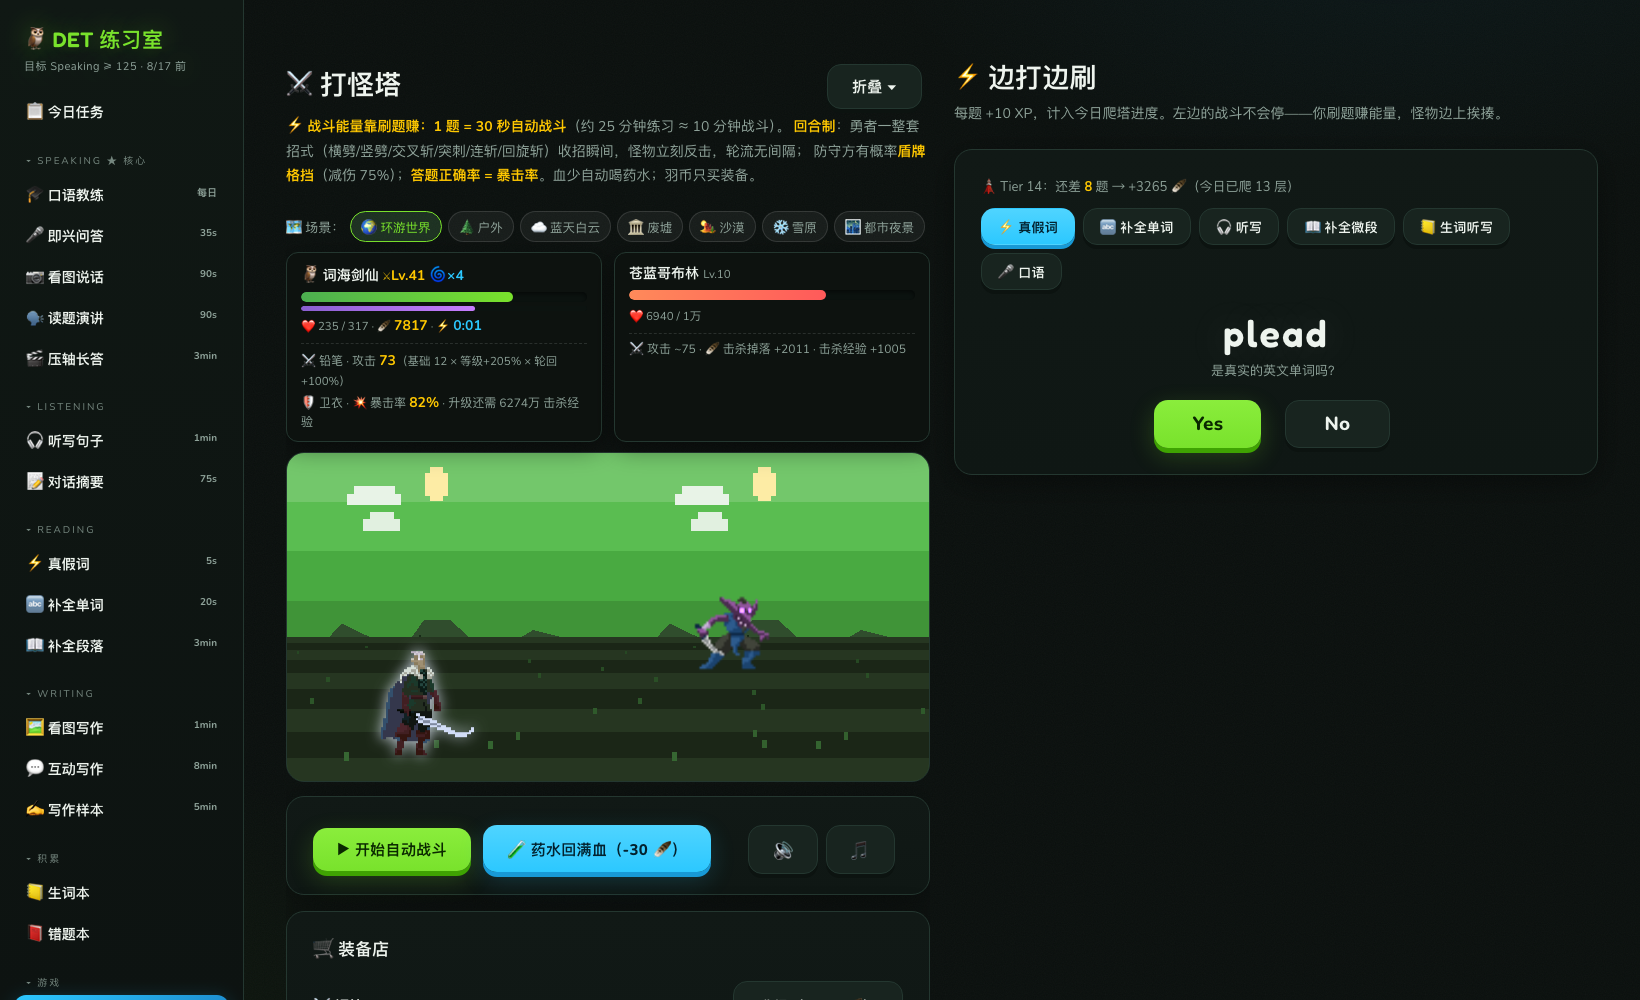
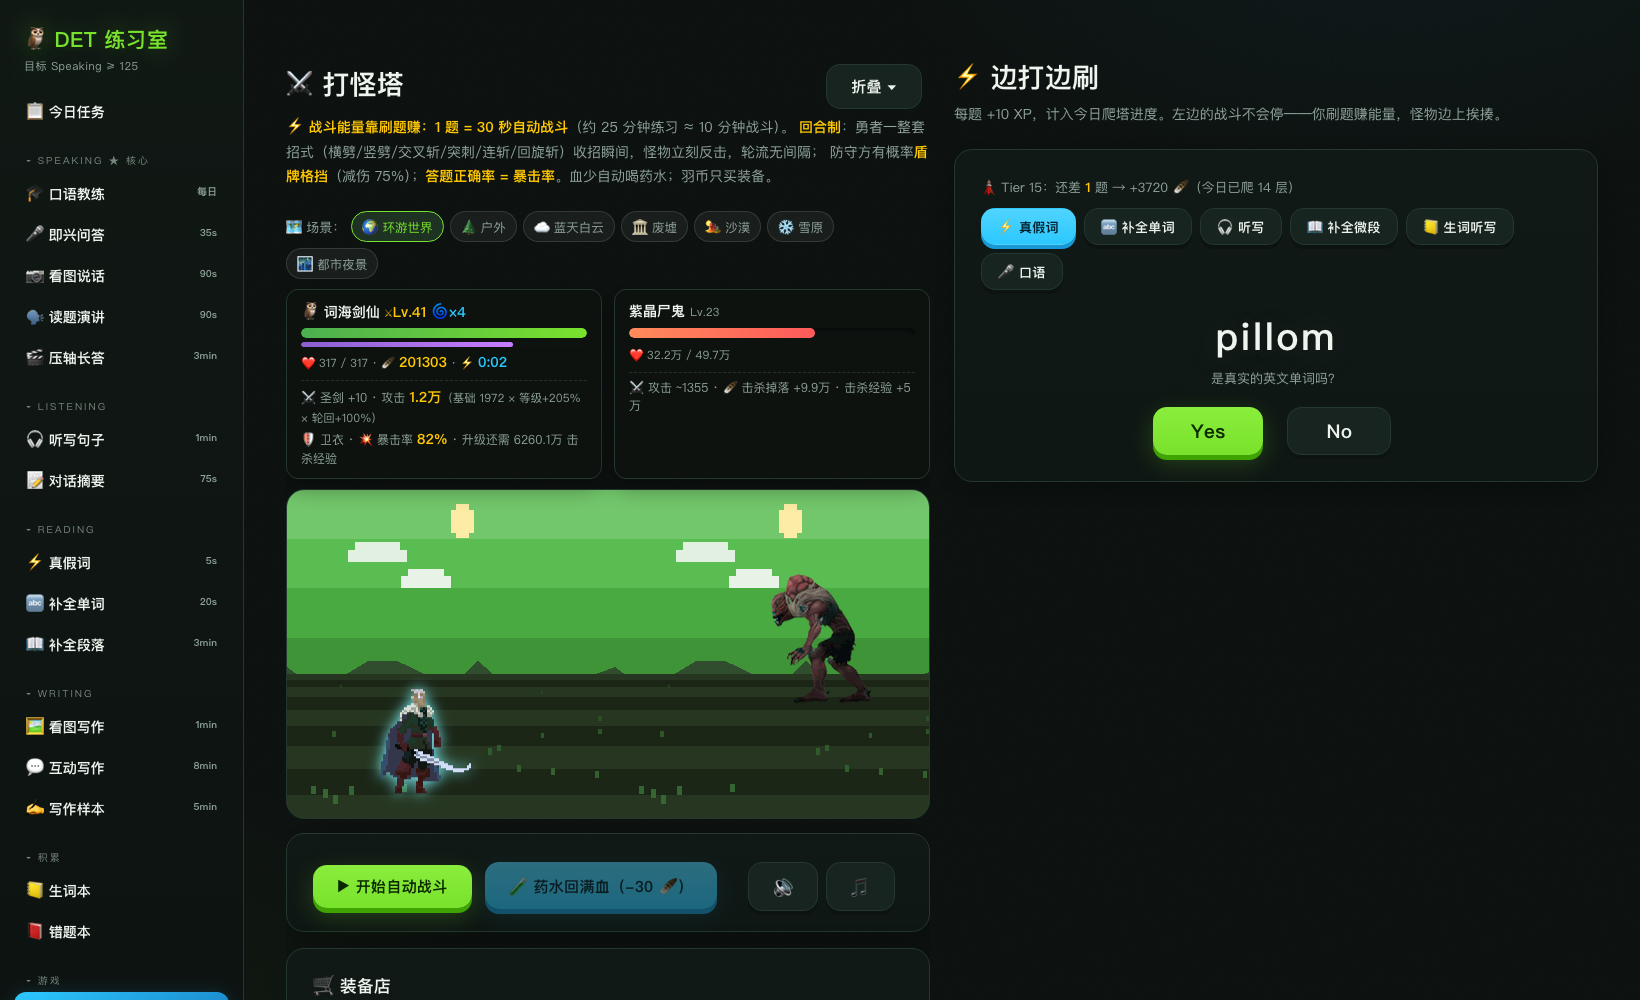
Re-cut demo (cropped, sidebar removed — no personal goal leak); split English into README.en.md with bilingual nav links; ?demo mode masks the personal exam-date countdown in screenshots/recordings

diff --git a/app.js b/app.js
@@ -1911,13 +1911,56 @@ function confetti(scopeSel) { // 不带参数=全屏庆祝；带选择器=只在
   }
 }
 
+// ── 目标设定：分数 + 考试日期由用户自己定（det_goal，跨设备同步）──
+function getGoal() { return J(localStorage.getItem("det_goal")); }
+function openGoalSetup() {
+  document.getElementById("goal-modal")?.remove();
+  const g = getGoal() || {};
+  const wrap = document.createElement("div");
+  wrap.id = "goal-modal";
+  wrap.innerHTML = `<div class="goal-card card">
+    <h3>🎯 设定你的目标</h3>
+    <p class="muted">写下目标分数和考试日期，首页会为你倒计时。之后点侧栏顶部的目标行随时可改。</p>
+    <label class="goal-row">目标 Speaking 分数 <input type="number" id="goal-score" min="10" max="160" step="5" value="${g.score || 120}"></label>
+    <label class="goal-row">考试日期 <input type="date" id="goal-date" value="${g.date || ""}"></label>
+    <div style="display:flex;gap:10px;margin-top:14px">
+      <button class="primary" id="goal-save">保存</button>
+      <button class="ghost" id="goal-skip">先逛逛</button>
+    </div></div>`;
+  document.body.appendChild(wrap);
+  $("#goal-save", wrap).onclick = () => {
+    const score = Math.max(10, Math.min(160, +$("#goal-score", wrap).value || 120));
+    const date = $("#goal-date", wrap).value;
+    localStorage.setItem("det_goal", JSON.stringify({ score, date }));
+    wrap.remove();
+    renderGoalLine(); renderDashboard();
+    toast("🎯 目标已设定，冲！");
+  };
+  $("#goal-skip", wrap).onclick = () => { sessionStorage.setItem("goalskip", "1"); wrap.remove(); };
+}
+function renderGoalLine() {
+  const el = document.getElementById("goal-line");
+  if (!el) return;
+  const demo = location.search.includes("demo"); // 演示/截图模式：不暴露个人目标日期
+  const g = getGoal();
+  el.textContent = demo
+    ? "目标 Speaking ≥ 125"
+    : g && g.date
+    ? `目标 Speaking ≥ ${g.score} · ${g.date.slice(5).replace("-", "/")} 前`
+    : g ? `目标 Speaking ≥ ${g.score}` : "🎯 点击设定目标";
+  el.style.cursor = "pointer";
+  el.title = "点击修改目标";
+  el.onclick = openGoalSetup;
+}
+
 function renderDashboard() {
   const view = $("#view-dashboard");
   const log = getLog();
   const today = dayKey(Date.now());
   const days = new Set(log.map(e => dayKey(e.t)));
   const streak = calcStreak(days, today);
-  const daysLeft = Math.ceil((new Date("2026-08-17T00:00:00") - Date.now()) / 86400000);
+  const goal = getGoal();
+  const daysLeft = goal && goal.date && !location.search.includes("demo") ? Math.ceil((new Date(goal.date + "T00:00:00") - Date.now()) / 86400000) : null;
   const { Q, B, allDone, extra, g } = settleTower();
   const doneCnt = Q.filter(q => q.done >= q.n).length;
   const totalMin = Q.reduce((s, q) => s + q.time, 0);
@@ -1950,7 +1993,7 @@ function renderDashboard() {
         <div class="lbl">${xp} XP${lv.next ? ` · 距 ${lv.next.icon} ${lv.next.name} 还差 ${lv.next.xp - xp} XP` : " · 满级！"}</div>
       </div>
       <div class="hero-coins" id="hero-coins" title="去打怪塔花掉它">🪶 ${fmtNum(g.coins)}<div class="lbl">羽币</div></div>
-      <div class="hero-deadline">${daysLeft}<div class="lbl">天后截止</div></div>
+      <div class="hero-deadline" style="cursor:pointer" onclick="openGoalSetup()" title="点击设定/修改目标">${daysLeft != null ? `${daysLeft}<div class="lbl">天后截止</div>` : `🎯<div class="lbl">设定目标</div>`}</div>
     </div>
 
     ${allDone ? `<div class="card dash-banner" style="border-color:var(--accent);background:#16240f;padding:12px 20px"><b>🎉 今日全勤！+100 XP · +${BASE_CLEAR_REWARD} 🪶</b> <span class="muted">进阶塔已解锁——多刷的题都在爬塔。</span></div>` : ""}
@@ -3816,6 +3859,8 @@ document.querySelectorAll(".nav-item").forEach(btn => {
 });
 
 renderDashboard();
+renderGoalLine();
+setTimeout(() => { if (!getGoal() && !sessionStorage.getItem("goalskip") && !location.search.includes("demo")) openGoalSetup(); }, 1400);
 renderScores();
 renderLog();
 renderVocab();

diff --git a/style.css b/style.css
@@ -1292,3 +1292,10 @@ mark.fix-good { background: rgba(76, 217, 130, 0.22); color: #8fe6a8; font-weigh
 /* —— 战场内彩纸：绝不越出矩形 —— */
 .confetti-local { position: absolute; top: -30px; animation: confettiFallLocal 2.3s linear forwards; }
 @keyframes confettiFallLocal { to { transform: translateY(380px) rotate(540deg); opacity: 0.85; } }
+
+/* —— 目标设定弹窗 —— */
+#goal-modal { position: fixed; inset: 0; z-index: 1200; background: rgba(5, 8, 6, 0.66);
+  display: flex; align-items: center; justify-content: center; backdrop-filter: blur(3px); }
+#goal-modal .goal-card { width: min(420px, 92vw); }
+#goal-modal .goal-row { display: flex; justify-content: space-between; align-items: center; gap: 12px; margin: 10px 0; font-size: 14px; }
+#goal-modal input { width: 150px; }

diff --git a/index.html b/index.html
@@ -14,7 +14,7 @@
 <body>
 
 <nav id="sidebar">
-  <h1>🦉 DET 练习室<small>目标 Speaking ≥ 125 · 8/17 前</small></h1>
+  <h1>🦉 DET 练习室<small id="goal-line"></small></h1>
 
   <div class="nav-group">
     <button class="nav-item active" data-view="dashboard">📋 今日任务</button>

diff --git a/README.en.md b/README.en.md
@@ -1,0 +1,81 @@
+# DET Practice Arena 🦉
+
+[简体中文](README.md) · **English**
+
+**Turn Duolingo English Test prep into an RPG.**
+
+Answer questions to earn energy → energy powers your hero's auto-battle → slain bosses drop coins → upgrade gear, climb the tower, rebirth. Every correct answer buys your hero 30 more seconds of combat — vocabulary grind becomes a level-up grind.
+
+## 🎬 Demo
+
+![Demo: fight on the left while you drill on the right](docs/demo.gif)
+
+▶️ [Watch the full HD clip (MP4)](docs/demo.mp4) — shield blocks, spinning-slash crits, day/night biome shifts, an elite knight going down — all in one take.
+
+## 📸 Screenshots
+
+| Daily quest dashboard | Fight-while-you-drill split view |
+| :---: | :---: |
+| ![Dashboard](docs/screenshot-dashboard.png) | ![Battle & drill split view](docs/screenshot-battle.png) |
+
+## 🎮 How the game works
+
+- **⚔️ Boss Tower**: turn-based auto-combat — your hero unleashes hand-choreographed sword combos while monsters charge and counter, and shield blocks throw sparks. Battle time is earned only by studying: **1 answered question = 30 seconds**
+- **60+ bosses** from CC0 animated avatars (goblin, skeleton, fire serpent, zombie, evil wizard, oni, dark knight, dragon…), recolored into elite variants every cycle — azure, amethyst, gold, crimson, emerald
+- **Today's accuracy = today's crit rate** — study sharper, hit harder
+- **Gear & progression**: a feather shop upgrades weapons and armor (blades change shape and color by tier), plus combat levels and a title ladder
+- **🌀 Rebirth / prestige**: past floor 25, rebirth keeps your combat level and stacks permanent damage — the numbers never inflate
+- **Living battlefield**: 7 chiptune tracks cross-fade on every kill while you march through procedurally generated biomes (outdoors, blue sky, ruins, desert, snow, night city)
+- **Daily quests**: quest rings, streaks, XP levels and a badge wall — 15–30 min a day, evenly covering every task type
+
+## 📚 Practice features
+
+- **Timed simulations of 12 DET task types**: interactive speaking (TTS prompt + AI adaptive follow-ups), describe-the-image, read-then-speak, the long speaking sample, listening dictation, conversation summary, real/fake words, fill-in-the-blanks, C-test, write-about-the-photo, interactive writing, writing sample
+- **AI scoring on the official rubric**: scoring is built on the six criteria and band descriptors of the official DET scoring guide, tolerant of speech-to-text errors, with a stated reason for every band
+- **Highlighter-style corrections**: your full answer is reproduced verbatim, errors highlighted in red with the correct phrasing right after in green
+- **🎓 AI speaking coach**: a daily drill — model answer, structure & sentence-pattern breakdown, keyword recall, timed response, AI critique and multi-version rewrites
+- **Never-repeating banks**: answered items never reappear across devices or reloads; the AI tops banks up automatically when they run low
+- **Voice transcription**: server-side faster-whisper, CPU-friendly, works in both Safari and Chrome
+- **Vocabulary & mistake books**: wrong words collected automatically with AI explanations; all progress syncs across browsers
+
+## 🏗 Architecture
+
+```
+index.html / style.css / app.js / data.js   Frontend (vanilla JS, zero build, no framework)
+server.js          Node ≥18: static files + API proxy
+  POST /api/ai           → DeepSeek-compatible API (key read server-side, never sent to the client)
+  POST /api/transcribe   → local whisper daemon (127.0.0.1:8095)
+  GET/POST /api/state    → data/profile.json (cross-browser progress sync, single user)
+transcribe_daemon.py     faster-whisper base.en (int8, CPU is enough)
+```
+
+## 🚀 Deploy
+
+```bash
+# 1. Provide an AI key (DeepSeek or any /chat/completions-compatible service)
+echo "DEEPSEEK_API_KEY=sk-..." > /path/to/.env
+echo "DEEPSEEK_MODEL=deepseek-chat" >> /path/to/.env
+export DEEPSEEK_ENV_PATH=/path/to/.env
+
+# 2. Transcription service (optional; without it, recording-based scoring is unavailable)
+python3 -m venv whisper-venv && whisper-venv/bin/pip install faster-whisper av
+whisper-venv/bin/python transcribe_daemon.py &
+
+# 3. Run
+node server.js          # http://localhost:8090
+```
+
+Microphone access requires HTTPS (browser restriction): use [Tailscale Serve](https://tailscale.com/kb/1242/tailscale-serve) or any reverse proxy.
+
+## 🎨 Asset credits (all CC0 public domain)
+
+- SFX: [Kenney](https://kenney.nl) Impact Sounds / RPG Audio · [RPG Sound Pack](https://opengameart.org/content/rpg-sound-pack) (artisticdude)
+- Particles: Kenney Particle Pack
+- BGM: Juhani Junkala [5 Chiptunes (Action)](https://opengameart.org/content/5-chiptunes-action) + [4 Chiptunes (Adventure)](https://opengameart.org/content/4-chiptunes-adventure)
+- Hero: [Fantasy Warrior](https://luizmelo.itch.io/fantasy-warrior) (LuizMelo); pixel monsters: assorted CC0 packs by LuizMelo
+- Animated bosses: Cethiel [Dragon](https://opengameart.org/content/dragon-fully-animated) / [Zombie - Fully Animated](https://opengameart.org/content/zombie-fully-animated)
+- Backgrounds, effect choreography and the procedural pixel generators are original to this project
+
+## 📄 License
+
+Code is open-sourced under [MIT](LICENSE). Question content is original to this project (not real exam material). Duolingo English Test is a trademark of Duolingo, Inc.; this project is not affiliated with it.

diff --git a/README.md b/README.md
@@ -1,16 +1,18 @@
 # DET 练习室 🦉 · DET Practice Arena
 
+**简体中文** · [English](README.en.md)
+
 **把 Duolingo English Test 备考变成一场 RPG。**
 
 刷题赚能量 → 能量驱动自动战斗 → 击杀 BOSS 掉落金币 → 升级装备、爬塔、转生。每答对一道题，左边的勇者就替你多砍 30 秒——背单词从此变成打怪升级。
 
-> Turn DET prep into an RPG: every answered question fuels your hero's auto-battle. An open-source, self-hosted practice platform with timed simulations of 12 task types, AI scoring & corrections, local Whisper transcription, and a full game layer on top. *English summary below.*
+> 一个开源、可自托管的 DET 练习平台：12 个题型限时模拟、对标官方评分标准的 AI 评分与纠错、本地 Whisper 转写，外加一整套把刷题变成 RPG 的游戏系统。English README → [README.en.md](README.en.md).
 
 ## 🎬 实机演示
 
-![Demo: 边打边刷——左边盾牌格挡、回旋斩、暴击魔龙，右边补全单词](docs/demo.gif)
+![Demo: 左边自动战斗，右边同步刷题](docs/demo.gif)
 
-▶️ [观看高清完整视频（MP4）](docs/demo.mp4) — 盾牌格挡、回旋斩雷光、场景昼夜切换、苍蓝魔龙挨暴击，全在 40 秒里。
+▶️ [观看高清完整视频（MP4）](docs/demo.mp4) — 夜城黑暗骑士、盾牌格挡、回旋斩暴击、场景昼夜切换，右侧全程同步刷题。
 
 ## 📸 截图
 
@@ -79,18 +81,3 @@ node server.js          # http://localhost:8090
 ## 📄 License
 
 代码以 [MIT](LICENSE) 开源。题库内容为本项目原创（非官方真题）；Duolingo English Test 是 Duolingo, Inc. 的商标，本项目与其无关联。
-
----
-
-## English Summary
-
-**DET Practice Arena** turns Duolingo English Test prep into an RPG:
-
-- **Practice fuels battle**: each answered question grants 30 seconds of idle auto-combat — your hero swings hand-choreographed sword combos while monsters charge, block, and counter
-- **60+ named bosses** from CC0 animated avatars (goblins, skeletons, fire serpents, dragons…) with recolored elite variants every cycle, gear shops, combat levels, title ladders, and a prestige/rebirth loop
-- **Today's answer accuracy = today's crit rate** — the better you study, the harder you hit
-- Timed simulations of **12 DET task types**, AI scoring built on the official scoring guide's criteria and bands (transcription-error tolerant), highlighter-style full-transcript corrections, a daily AI speaking coach, and never-repeating question banks with automatic AI refills
-- **Server-side Whisper transcription** (CPU-friendly), cross-browser progress sync, daily quest rings with streaks and badges
-- Zero-build vanilla JS frontend + a single Node server; bring any OpenAI-compatible chat API
-
-Deploy: point `DEEPSEEK_ENV_PATH` at an env file with your API key, optionally start the whisper daemon, run `node server.js`, serve over HTTPS for mic access.